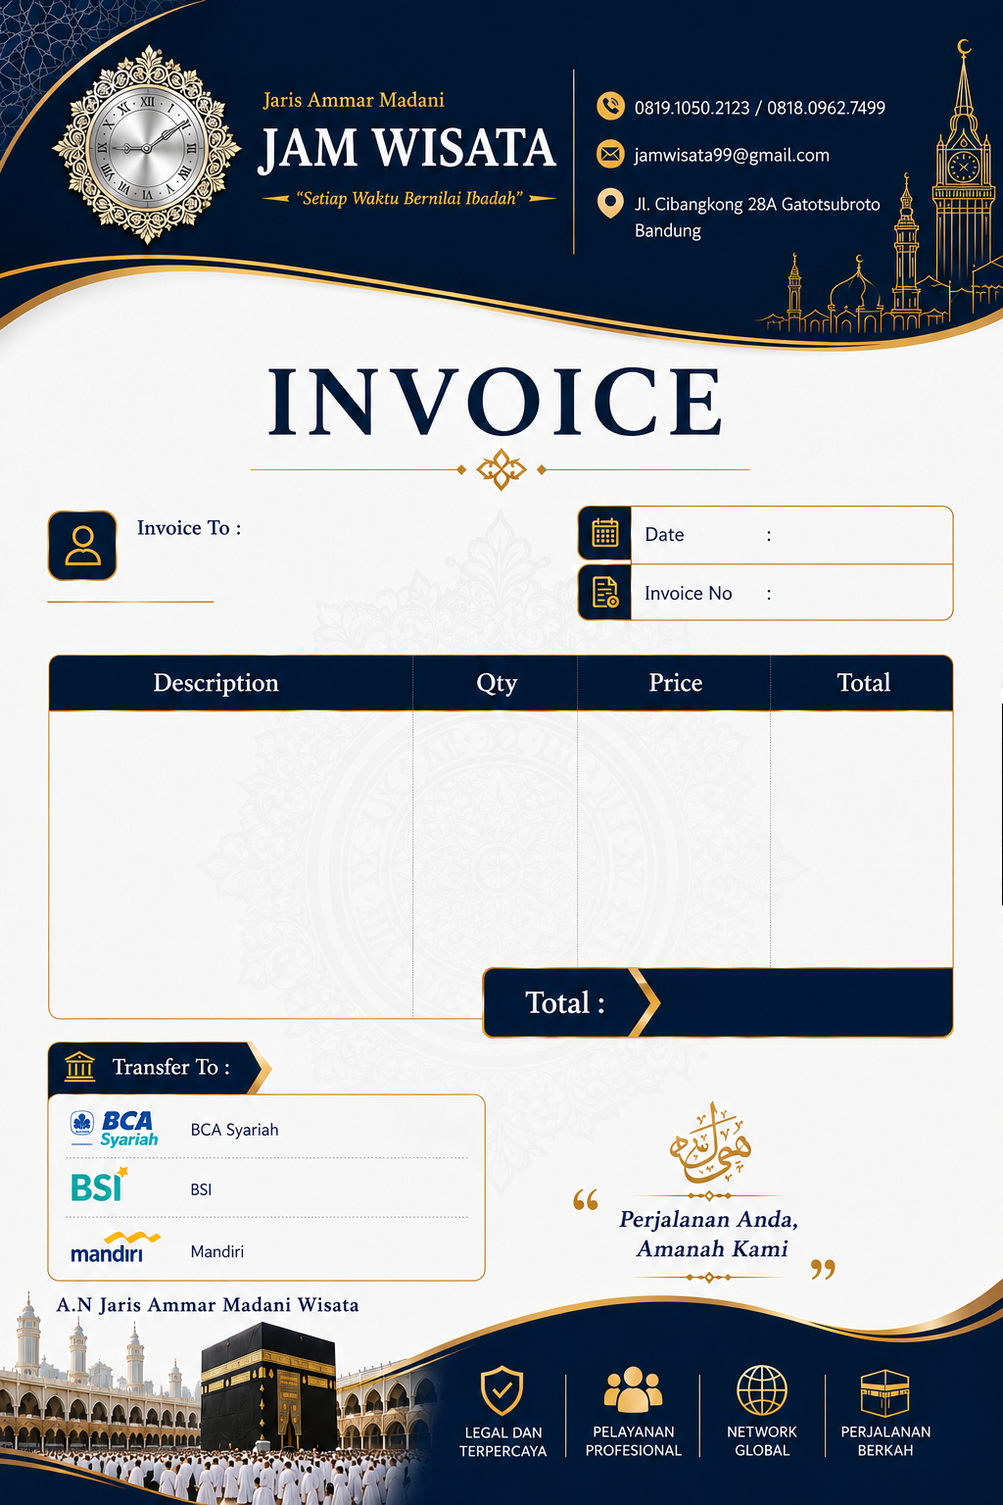
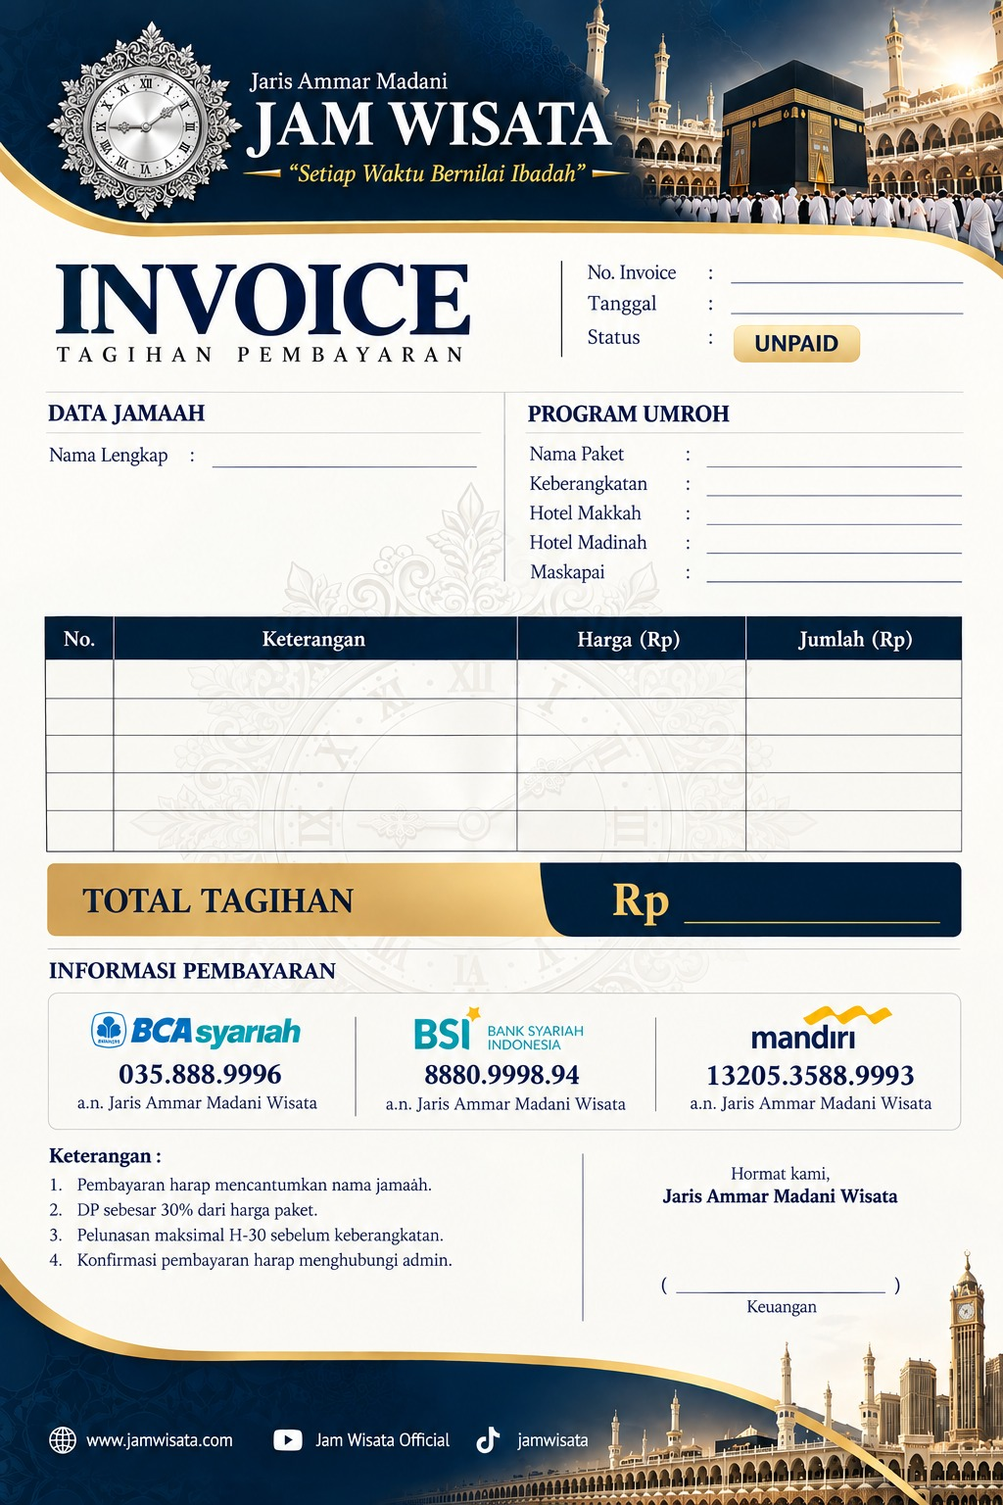
feat(documents): apply client invoice and receipt templates

diff --git a/src/lib/management/document-templates.ts b/src/lib/management/document-templates.ts
@@ -16,6 +16,7 @@ export type TemplateFieldConfig = {
   fontStyle?: "normal" | "italic";
   fontFamily?: "sans" | "serif";
   color?: string;
+  scaleToFit?: boolean;
 };
 
 export type DocumentTemplateConfig = {
@@ -58,57 +59,51 @@ export const invoiceTemplate: DocumentTemplateConfig = {
   width: 1024,
   height: 1536,
   background: "/templates/invoice-jamwisata.png",
-  rows: [754, 824, 894],
-  masks: [
-    { x: 190, y: 1135, width: 270, height: 31, color: "#f7f6f6" },
-    { x: 190, y: 1199, width: 270, height: 31, color: "#f7f6f6" },
-    { x: 190, y: 1263, width: 270, height: 31, color: "#f7f6f6" },
-  ],
+  rows: [674, 713, 752, 791, 830],
+  signature: { src: "/templates/kwitansi-signature-stamp.png", x: 704, y: 1241, width: 220, height: 58 },
   fields: {
-    customerName: invoiceField({ x: 140, y: 558, width: 320, height: 66, fontSize: 27, lineHeight: 31, minFontSize: 18, maxLines: 2, verticalAlign: "middle" }),
-    date: invoiceField({ x: 792, y: 536, width: 165, height: 30, fontSize: 18, lineHeight: 24, minFontSize: 15 }),
-    documentNumber: invoiceField({ x: 792, y: 584, width: 178, height: 44, fontSize: 18, lineHeight: 21, minFontSize: 11, maxLines: 2, verticalAlign: "middle" }),
-    description: invoiceField({ x: 60, y: 0, width: 342, height: 62, fontSize: 20, lineHeight: 28, minFontSize: 15, maxLines: 2 }),
-    qty: invoiceField({ x: 486, y: 0, width: 62, height: 30, fontSize: 16, lineHeight: 23, textAlign: "center" }),
-    price: invoiceField({ x: 604, y: 0, width: 164, height: 30, fontSize: 20, lineHeight: 27, textAlign: "right", minFontSize: 15 }),
-    itemTotal: invoiceField({ x: 797, y: 0, width: 164, height: 30, fontSize: 20, lineHeight: 27, textAlign: "right", minFontSize: 15 }),
-    grandTotal: invoiceField({ x: 688, y: 997, width: 272, height: 50, fontSize: 35, lineHeight: 42, textAlign: "right", minFontSize: 22, color: "#f9b947" }),
-    continuation: invoiceField({ x: 680, y: 1007, width: 280, height: 30, fontSize: 17, lineHeight: 23, textAlign: "right", minFontSize: 14, color: "#f9b947" }),
-    account1: invoiceField({ x: 225, y: 1137, width: 227, height: 30, fontSize: 21, lineHeight: 27, minFontSize: 17 }),
-    account2: invoiceField({ x: 225, y: 1201, width: 227, height: 30, fontSize: 21, lineHeight: 27, minFontSize: 17 }),
-    account3: invoiceField({ x: 225, y: 1265, width: 227, height: 30, fontSize: 21, lineHeight: 27, minFontSize: 17 }),
+    customerName: invoiceField({ x: 203, y: 445, width: 284, height: 42, fontSize: 19, lineHeight: 21, minFontSize: 12, maxLines: 2 }),
+    date: invoiceField({ x: 747, y: 295, width: 236, height: 31, fontSize: 17, lineHeight: 21, minFontSize: 12 }),
+    documentNumber: invoiceField({ x: 747, y: 264, width: 236, height: 31, fontSize: 17, lineHeight: 21, minFontSize: 8, scaleToFit: true }),
+    packageName: invoiceField({ x: 720, y: 445, width: 263, height: 34, fontSize: 17, lineHeight: 21, minFontSize: 8 }),
+    departure: invoiceField({ x: 720, y: 477, width: 263, height: 34, fontSize: 17, lineHeight: 21, minFontSize: 8 }),
+    makkahHotel: invoiceField({ x: 720, y: 509, width: 263, height: 34, fontSize: 17, lineHeight: 21, minFontSize: 8 }),
+    madinahHotel: invoiceField({ x: 720, y: 541, width: 263, height: 34, fontSize: 17, lineHeight: 21, minFontSize: 8 }),
+    airline: invoiceField({ x: 720, y: 573, width: 263, height: 34, fontSize: 17, lineHeight: 21, minFontSize: 8 }),
+    rowNumber: invoiceField({ x: 52, y: 0, width: 58, height: 36, fontSize: 16, lineHeight: 21, textAlign: "center" }),
+    description: invoiceField({ x: 125, y: 0, width: 390, height: 36, fontSize: 16, lineHeight: 19, minFontSize: 11, maxLines: 2 }),
+    price: invoiceField({ x: 545, y: 0, width: 200, height: 36, fontSize: 16, lineHeight: 21, textAlign: "right", minFontSize: 11 }),
+    itemTotal: invoiceField({ x: 777, y: 0, width: 190, height: 36, fontSize: 16, lineHeight: 21, textAlign: "right", minFontSize: 11 }),
+    grandTotal: invoiceField({ x: 706, y: 887, width: 258, height: 61, fontSize: 31, lineHeight: 38, textAlign: "right", minFontSize: 19, color: "#f9c65b", fontWeight: 700 }),
+    continuation: invoiceField({ x: 704, y: 895, width: 260, height: 44, fontSize: 15, lineHeight: 20, textAlign: "right", minFontSize: 11, color: "#f9c65b" }),
+    signerName: invoiceField({ x: 694, y: 1296, width: 232, height: 29, fontSize: 15, lineHeight: 19, minFontSize: 8, textAlign: "center", fontWeight: 600 }),
   },
 };
 
 export const receiptTemplate: DocumentTemplateConfig = {
-  width: 1536,
-  height: 1024,
+  width: 1600,
+  height: 800,
   background: "/templates/kwitansi-jamwisata.png",
-  rows: [578, 620, 662, 704],
+  rows: [0],
   masks: [
-    { x: 1060, y: 842, width: 325, height: 42 },
-    { x: 1045, y: 951, width: 360, height: 50 },
+    { x: 1175, y: 610, width: 370, height: 42, color: "#faf7f2" },
   ],
-  signature: { src: "/templates/kwitansi-signature-stamp.png", x: 1083, y: 884, width: 280, height: 68 },
+  signature: { src: "/templates/kwitansi-signature-stamp.png", x: 1247, y: 672, width: 220, height: 48 },
   fields: {
-    customerName: receiptField({ x: 73, y: 440, width: 580, height: 66, fontSize: 42, lineHeight: 31, minFontSize: 21, maxLines: 2, fontWeight: 700, fontStyle: "italic", fontFamily: "serif", color: "#d69a20", verticalAlign: "bottom" }),
-    date: receiptField({ x: 1242, y: 284, width: 224, height: 36, fontSize: 24, lineHeight: 32, minFontSize: 20 }),
-    documentNumber: receiptField({ x: 1242, y: 349, width: 224, height: 52, fontSize: 24, lineHeight: 24, minFontSize: 13, maxLines: 2 }),
-    paymentMethod: receiptField({ x: 1242, y: 427, width: 224, height: 50, fontSize: 20, lineHeight: 23, minFontSize: 13, maxLines: 2 }),
-    rowNumber: receiptField({ x: 85, y: 0, width: 98, height: 38, fontSize: 18, lineHeight: 26, textAlign: "center" }),
-    description: receiptField({ x: 210, y: 0, width: 720, height: 78, fontSize: 19, lineHeight: 29, minFontSize: 15, maxLines: 2 }),
-    qty: receiptField({ x: 1120, y: 0, width: 72, height: 38, fontSize: 18, lineHeight: 26, textAlign: "center" }),
-    itemTotal: receiptField({ x: 1235, y: 0, width: 230, height: 38, fontSize: 20, lineHeight: 28, textAlign: "right", minFontSize: 16 }),
-    amountInWords: receiptField({ x: 372, y: 760, width: 440, height: 67, fontSize: 20, lineHeight: 21, minFontSize: 13, maxLines: 3, fontStyle: "italic", verticalAlign: "middle" }),
-    grandTotal: receiptField({ x: 1198, y: 758, width: 252, height: 58, fontSize: 39, lineHeight: 46, textAlign: "right", minFontSize: 22, fontWeight: 700, color: "#f9b947" }),
-    signerRole: receiptField({ x: 1065, y: 843, width: 315, height: 39, fontSize: 18, lineHeight: 19, minFontSize: 14, maxLines: 2, textAlign: "center", fontWeight: 700 }),
-    signerName: receiptField({ x: 1050, y: 958, width: 345, height: 40, fontSize: 24, lineHeight: 27, minFontSize: 15, maxLines: 1, textAlign: "center", fontWeight: 700 }),
+    customerName: receiptField({ x: 363, y: 325, width: 1180, height: 42, fontSize: 25, lineHeight: 28, minFontSize: 16, maxLines: 2 }),
+    date: receiptField({ x: 1175, y: 610, width: 370, height: 42, fontSize: 20, lineHeight: 25, minFontSize: 14, textAlign: "right" }),
+    documentNumber: receiptField({ x: 1124, y: 241, width: 403, height: 45, fontSize: 23, lineHeight: 28, minFontSize: 13 }),
+    numericAmount: receiptField({ x: 374, y: 373, width: 1155, height: 58, fontSize: 25, lineHeight: 31, minFontSize: 16, fontWeight: 600 }),
+    description: receiptField({ x: 363, y: 448, width: 1180, height: 76, fontSize: 23, lineHeight: 30, minFontSize: 15, maxLines: 2 }),
+    amountInWords: receiptField({ x: 374, y: 535, width: 1155, height: 64, fontSize: 23, lineHeight: 28, minFontSize: 14, maxLines: 2, fontStyle: "italic" }),
+    grandTotal: receiptField({ x: 192, y: 625, width: 552, height: 67, fontSize: 36, lineHeight: 43, textAlign: "right", minFontSize: 21, fontWeight: 700, color: "#092b55" }),
+    signerName: receiptField({ x: 1237, y: 710, width: 248, height: 32, fontSize: 17, lineHeight: 21, minFontSize: 11, maxLines: 1, textAlign: "center", fontWeight: 600 }),
   },
 };
 
 export const documentTemplates = { invoice: invoiceTemplate, receipt: receiptTemplate } as const;
 
 export function templateCurrency(value: number, includePrefix = true) {
-  const amount = new Intl.NumberFormat("en-US", { maximumFractionDigits: 0 }).format(value);
+  const amount = new Intl.NumberFormat("id-ID", { maximumFractionDigits: 0 }).format(value);
   return includePrefix ? `Rp. ${amount}` : amount;
 }

diff --git a/src/lib/management/document-renderer.ts b/src/lib/management/document-renderer.ts
@@ -18,6 +18,13 @@ export type TransactionPdfSnapshot = {
   method?: string;
   reference?: string | null;
   invoiceNumber?: string;
+  program?: {
+    packageName?: string | null;
+    departure?: string | null;
+    makkahHotel?: string | null;
+    madinahHotel?: string | null;
+    airline?: string | null;
+  };
   accounts: Array<{ bankName?: string | null; accountNumber?: string | null; accountHolder?: string | null }>;
   company: { name: string; address: string; phone: string; email: string; signerName: string; signerTitle: string };
 };
@@ -45,6 +52,7 @@ export type FittedTextLayout = {
   lineWidths: number[];
   totalHeight: number;
   truncated: boolean;
+  horizontallyScaled?: boolean;
 };
 
 type LineMeasureCache = Map<string, { width: number; height: number }>;
@@ -155,6 +163,17 @@ export async function fitTextToBox(value: string, field: TemplateFieldConfig): P
   const fontSize = minimum;
   const lineHeight = resolvedLineHeight(field, fontSize);
   const allLines = await wrapAtSize(clean, field, fontSize, cache);
+  if (field.scaleToFit && maxLines === 1) {
+    return {
+      fontSize,
+      lineHeight,
+      lines: [clean],
+      lineWidths: [field.width],
+      totalHeight: lineHeight,
+      truncated: false,
+      horizontallyScaled: true,
+    };
+  }
   const allowedLines = Math.max(1, Math.min(maxLines, Math.floor(field.height / lineHeight)));
   const lines = allLines.slice(0, allowedLines);
   const truncated = allLines.length > allowedLines;
@@ -180,7 +199,12 @@ async function fieldOverlay(value: string, config: TemplateFieldConfig, yOverrid
   const composites: OverlayOptions[] = [];
   for (let index = 0; index < layout.lines.length; index++) {
     if (!layout.lines[index]) continue;
-    const rendered = await renderLine(layout.lines[index], field, layout.fontSize);
+    let rendered = await renderLine(layout.lines[index], field, layout.fontSize);
+    if (layout.horizontallyScaled && rendered.width > field.width) {
+      const input = await sharp(rendered.input).resize({ width: Math.round(field.width), fit: "fill" }).png().toBuffer();
+      const metadata = await sharp(input).metadata();
+      rendered = { input, width: metadata.width ?? Math.round(field.width), height: metadata.height ?? rendered.height };
+    }
     const lineX = field.textAlign === "right"
       ? field.width - rendered.width
       : field.textAlign === "center"
@@ -202,37 +226,37 @@ async function pageFields(data: TransactionPdfSnapshot, pageItems: TransactionPd
   const fields = template.fields;
   const output: Array<Promise<OverlayOptions>> = [
     fieldOverlay(data.customer.name, fields.customerName),
-    fieldOverlay(dateLabel(data.issuedAt), fields.date),
+    fieldOverlay(data.kind === "receipt" ? `Bandung, ${dateLabel(data.issuedAt)}` : dateLabel(data.issuedAt), fields.date),
     fieldOverlay(data.number, fields.documentNumber),
   ];
   if (data.kind === "invoice") {
+    output.push(fieldOverlay(data.program?.packageName ?? "-", fields.packageName));
+    output.push(fieldOverlay(data.program?.departure ?? "-", fields.departure));
+    output.push(fieldOverlay(data.program?.makkahHotel ?? "-", fields.makkahHotel));
+    output.push(fieldOverlay(data.program?.madinahHotel ?? "-", fields.madinahHotel));
+    output.push(fieldOverlay(data.program?.airline ?? "-", fields.airline));
     pageItems.forEach((item, index) => {
       const rowY = template.rows[index];
-      const descriptionField = pageItems.length === 1 ? { ...fields.description, height: 112, maxLines: 3, verticalAlign: "top" as const } : fields.description;
-      output.push(fieldOverlay(item.description, descriptionField, rowY));
-      output.push(fieldOverlay(String(item.qty), fields.qty, rowY + 13));
-      output.push(fieldOverlay(templateCurrency(item.unitPrice), fields.price, rowY + 13));
-      output.push(fieldOverlay(templateCurrency(item.total), fields.itemTotal, rowY + 13));
-    });
-    if (showGrandTotal) output.push(fieldOverlay(templateCurrency(data.total), fields.grandTotal));
-    else output.push(fieldOverlay("Lanjut halaman berikutnya", fields.continuation));
-    data.accounts.slice(0, 3).forEach((account, index) => output.push(fieldOverlay(account.accountNumber ?? "-", fields[`account${index + 1}`])));
-  } else {
-    output.push(fieldOverlay(paymentMethod(data.method), fields.paymentMethod));
-    pageItems.forEach((item, index) => {
-      const rowY = template.rows[index];
-      const descriptionField = pageItems.length === 1 ? { ...fields.description, height: 120, maxLines: 3, verticalAlign: "top" as const } : { ...fields.description, height: 38, maxLines: 1, fontSize: 18, minFontSize: 14 };
+      const descriptionField = fields.description;
       output.push(fieldOverlay(String(index + 1), fields.rowNumber, rowY));
       output.push(fieldOverlay(item.description, descriptionField, rowY));
-      output.push(fieldOverlay(String(item.qty), fields.qty, rowY));
-      output.push(fieldOverlay(templateCurrency(item.total), fields.itemTotal, rowY));
+      output.push(fieldOverlay(templateCurrency(item.unitPrice, false), fields.price, rowY));
+      output.push(fieldOverlay(templateCurrency(item.total, false), fields.itemTotal, rowY));
     });
+    if (showGrandTotal) output.push(fieldOverlay(templateCurrency(data.total, false), fields.grandTotal));
+    else output.push(fieldOverlay("Lanjut halaman berikutnya", fields.continuation));
+    output.push(fieldOverlay(data.company.signerName || "Atie Supriati", fields.signerName));
+  } else {
+    const description = pageItems.map((item) => item.description).join("; ");
+    const method = paymentMethod(data.method);
+    const paymentDescription = method === "-" ? description : `${description} (${method})`;
+    output.push(fieldOverlay(templateCurrency(data.total), fields.numericAmount));
+    output.push(fieldOverlay(paymentDescription, fields.description));
     if (showGrandTotal) {
       output.push(fieldOverlay(`#${terbilang(data.total)}#`, fields.amountInWords));
       output.push(fieldOverlay(templateCurrency(data.total, false), fields.grandTotal));
     }
-    output.push(fieldOverlay(data.company.signerTitle || "Keuangan", fields.signerRole));
-    output.push(fieldOverlay(`( ${data.company.signerName || "Atie Supriati"} )`, fields.signerName));
+    output.push(fieldOverlay(data.company.signerName || "Atie Supriati", fields.signerName));
   }
   return Promise.all(output);
 }

diff --git a/src/lib/management/issue-document.ts b/src/lib/management/issue-document.ts
@@ -3,7 +3,7 @@ import "server-only";
 import { createHash, randomUUID } from "node:crypto";
 import { and, eq, sql } from "drizzle-orm";
 
-import { auditLogs, bookings, documentSequences, financialAccounts, issuedDocuments, managementSettings, paymentAllocations, payments, registrations } from "@/db/schema";
+import { accommodations, auditLogs, bookings, documentSequences, financialAccounts, issuedDocuments, managementSettings, paymentAllocations, payments, registrations } from "@/db/schema";
 import { withManagementTransaction } from "@/db/transaction";
 import { formatDocumentNumber } from "./domain";
 import { renderTransactionPdf, type TransactionPdfSnapshot } from "./document-renderer";
@@ -31,6 +31,7 @@ export async function issueTransactionDocument({ kind, bookingId, paymentId, inv
     const booking = await tx.query.bookings.findFirst({ where: eq(bookings.id, bookingId) });
     if (!booking) throw new Error("Booking tidak ditemukan.");
     const registrationRows = await tx.select().from(registrations).where(eq(registrations.bookingId, booking.id));
+    const accommodationRows = await tx.select().from(accommodations).where(eq(accommodations.departureId, booking.departureId));
     const settings = await tx.query.managementSettings.findFirst({ where: eq(managementSettings.id, "default") });
     const accountRows = await tx.select().from(financialAccounts).where(and(eq(financialAccounts.showOnInvoice, true), eq(financialAccounts.status, "active")));
     const issuedAt = new Date();
@@ -77,6 +78,13 @@ export async function issueTransactionDocument({ kind, bookingId, paymentId, inv
       method: payment?.method,
       reference: payment?.reference,
       invoiceNumber: linkedInvoice?.number,
+      program: {
+        packageName: String(booking.packageSnapshot.name ?? "Paket umroh"),
+        departure: String(booking.packageSnapshot.dateLabel ?? booking.packageSnapshot.departureDate ?? "-"),
+        makkahHotel: accommodationRows.find((item) => /makk|mekk|mecca/i.test(item.city))?.hotelName ?? "-",
+        madinahHotel: accommodationRows.find((item) => /madin/i.test(item.city))?.hotelName ?? "-",
+        airline: String(booking.packageSnapshot.airline ?? "-"),
+      },
       accounts: accountRows.map(({ bankName, accountNumber, accountHolder }) => ({ bankName, accountNumber, accountHolder })),
       company: { name: settings?.companyName ?? "Jam Wisata", address: settings?.companyAddress ?? "", phone: settings?.companyPhone ?? "", email: settings?.companyEmail ?? "", signerName: settings?.financeSignerName ?? "", signerTitle: settings?.financeSignerTitle ?? "Keuangan" },
     };
@@ -86,7 +94,7 @@ export async function issueTransactionDocument({ kind, bookingId, paymentId, inv
     const pdf = await renderTransactionPdf(snapshot);
     await putPrivateObject(objectKey, new Uint8Array(pdf), "application/pdf");
     const checksum = createHash("sha256").update(pdf).digest("hex");
-    await tx.insert(issuedDocuments).values({ id, kind, number: formatted.number, bookingId: booking.id, paymentId: payment?.id ?? null, sequenceId: sequence.id, snapshot, objectKey, checksum, templateVersion: "jamwisata-image-v2", issuedAt, createdBy: actorId });
+    await tx.insert(issuedDocuments).values({ id, kind, number: formatted.number, bookingId: booking.id, paymentId: payment?.id ?? null, sequenceId: sequence.id, snapshot, objectKey, checksum, templateVersion: "jamwisata-client-image-v3", issuedAt, createdBy: actorId });
     await tx.update(documentSequences).set({ nextNumber: formatted.nextNumber, currentPeriod: formatted.period, updatedAt: new Date() }).where(eq(documentSequences.id, sequence.id));
     await tx.insert(auditLogs).values({ actorId, action: "issue", entityType: kind, entityId: id, summary: `${kind === "invoice" ? "Invoice" : "Kwitansi"} ${formatted.number} diterbitkan` });
     return { id, number: formatted.number, existing: false };

diff --git a/src/app/api/admin/management/issued-documents/preview/route.ts b/src/app/api/admin/management/issued-documents/preview/route.ts
@@ -2,7 +2,7 @@ import { NextResponse } from "next/server";
 import { and, eq } from "drizzle-orm";
 
 import { requireDatabase } from "@/db";
-import { bookings, documentSequences, financialAccounts, issuedDocuments, managementSettings, paymentAllocations, payments, registrations } from "@/db/schema";
+import { accommodations, bookings, documentSequences, financialAccounts, issuedDocuments, managementSettings, paymentAllocations, payments, registrations } from "@/db/schema";
 import { requireAdminSession } from "@/lib/admin-session";
 import { formatDocumentNumber } from "@/lib/management/domain";
 import { renderTransactionPdf, renderTransactionPng, type TransactionPdfSnapshot } from "@/lib/management/document-renderer";
@@ -23,6 +23,7 @@ export async function POST(request: Request) {
     const booking = await db.query.bookings.findFirst({ where: eq(bookings.id, body.bookingId) });
     if (!booking) throw new Error("Booking tidak ditemukan.");
     const registrationRows = await db.select().from(registrations).where(eq(registrations.bookingId, booking.id));
+    const accommodationRows = await db.select().from(accommodations).where(eq(accommodations.departureId, booking.departureId));
     const settings = await db.query.managementSettings.findFirst({ where: eq(managementSettings.id, "default") });
     const accountRows = await db.select().from(financialAccounts).where(and(eq(financialAccounts.showOnInvoice, true), eq(financialAccounts.status, "active")));
     const issuedAt = new Date();
@@ -70,6 +71,13 @@ export async function POST(request: Request) {
       method: payment?.method,
       reference: payment?.reference,
       invoiceNumber: linkedInvoice?.number,
+      program: {
+        packageName: String(booking.packageSnapshot.name ?? "Paket umroh"),
+        departure: String(booking.packageSnapshot.dateLabel ?? booking.packageSnapshot.departureDate ?? "-"),
+        makkahHotel: accommodationRows.find((item) => /makk|mekk|mecca/i.test(item.city))?.hotelName ?? "-",
+        madinahHotel: accommodationRows.find((item) => /madin/i.test(item.city))?.hotelName ?? "-",
+        airline: String(booking.packageSnapshot.airline ?? "-"),
+      },
       accounts: accountRows.map(({ bankName, accountNumber, accountHolder }) => ({ bankName, accountNumber, accountHolder })),
       company: {
         name: settings?.companyName ?? "Jam Wisata",

diff --git a/tests/management-document-renderer.test.ts b/tests/management-document-renderer.test.ts
@@ -33,8 +33,8 @@ describe("renderer template transaksi", () => {
   });
 
   it("membuat halaman tambahan tanpa memperpanjang template", async () => {
-    const items = Array.from({ length: 4 }, (_, index) => ({ description: `Item ${index + 1}`, qty: 1, unitPrice: 5_000_000, total: 5_000_000 }));
-    const bytes = await renderer.renderTransactionPdf({ ...base, kind: "invoice", items, total: 20_000_000 });
+    const items = Array.from({ length: 6 }, (_, index) => ({ description: `Item ${index + 1}`, qty: 1, unitPrice: 5_000_000, total: 5_000_000 }));
+    const bytes = await renderer.renderTransactionPdf({ ...base, kind: "invoice", items, total: 30_000_000 });
     const pdf = await PDFDocument.load(bytes);
     expect(pdf.getPageCount()).toBe(2);
     expect(pdf.getPages().map((page) => page.getSize())).toEqual([{ width: 1024, height: 1536 }, { width: 1024, height: 1536 }]);
@@ -50,7 +50,7 @@ describe("renderer template transaksi", () => {
       items: [{ description: "Pembayaran cicilan paket umroh untuk keluarga dengan keterangan transaksi panjang", qty: 2, unitPrice: 123_456_789, total: 246_913_578 }],
       total: 246_913_578,
     });
-    await expect(sharp(png).metadata()).resolves.toMatchObject({ format: "png", width: 1536, height: 1024 });
+    await expect(sharp(png).metadata()).resolves.toMatchObject({ format: "png", width: 1600, height: 800 });
   });
 
   it("menjaga data ekstrem di dalam bounding box invoice dan kwitansi", async () => {
@@ -59,7 +59,7 @@ describe("renderer template transaksi", () => {
       ["INV/JAMWISATA/UMRAH-PREMIUM/2026/00000000012345", invoiceTemplate.fields.documentNumber],
       ["Rp. 1,185,185,184", invoiceTemplate.fields.grandTotal],
       ["Muhammad Rizky Fadhlurrahman Al-Hafizh bin Abdul Muthalib Pratama", receiptTemplate.fields.customerName],
-      ["Transfer Antarbank melalui Virtual Account Perusahaan", receiptTemplate.fields.paymentMethod],
+      ["Rp. 1.185.185.184", receiptTemplate.fields.numericAmount],
       ["#Satu miliar seratus delapan puluh lima juta seratus delapan puluh lima ribu seratus delapan puluh empat rupiah#", receiptTemplate.fields.amountInWords],
       ["1,185,185,184", receiptTemplate.fields.grandTotal],
     ] as const;

diff --git a/scripts/render-document-layout-samples.ts b/scripts/render-document-layout-samples.ts
@@ -29,6 +29,13 @@ const invoice: TransactionPdfSnapshot = {
   ...common,
   kind: "invoice",
   number: "INV/JAMWISATA/UMRAH-PREMIUM/2026/00000000012345",
+  program: {
+    packageName: "Umrah Premium Keluarga Bintang Lima Plus Turki",
+    departure: "30 Desember 2026",
+    makkahHotel: "Pullman Zamzam Makkah Hotel & Convention",
+    madinahHotel: "Anwar Al Madinah Mövenpick Hotel",
+    airline: "Saudia Airlines penerbangan langsung Jakarta–Jeddah",
+  },
   items: [
     {
       description: "Pelunasan Paket Umrah Premium Keluarga Keberangkatan 30 Desember 2026 termasuk akomodasi, penerbangan, transportasi, dan perlengkapan jamaah",
